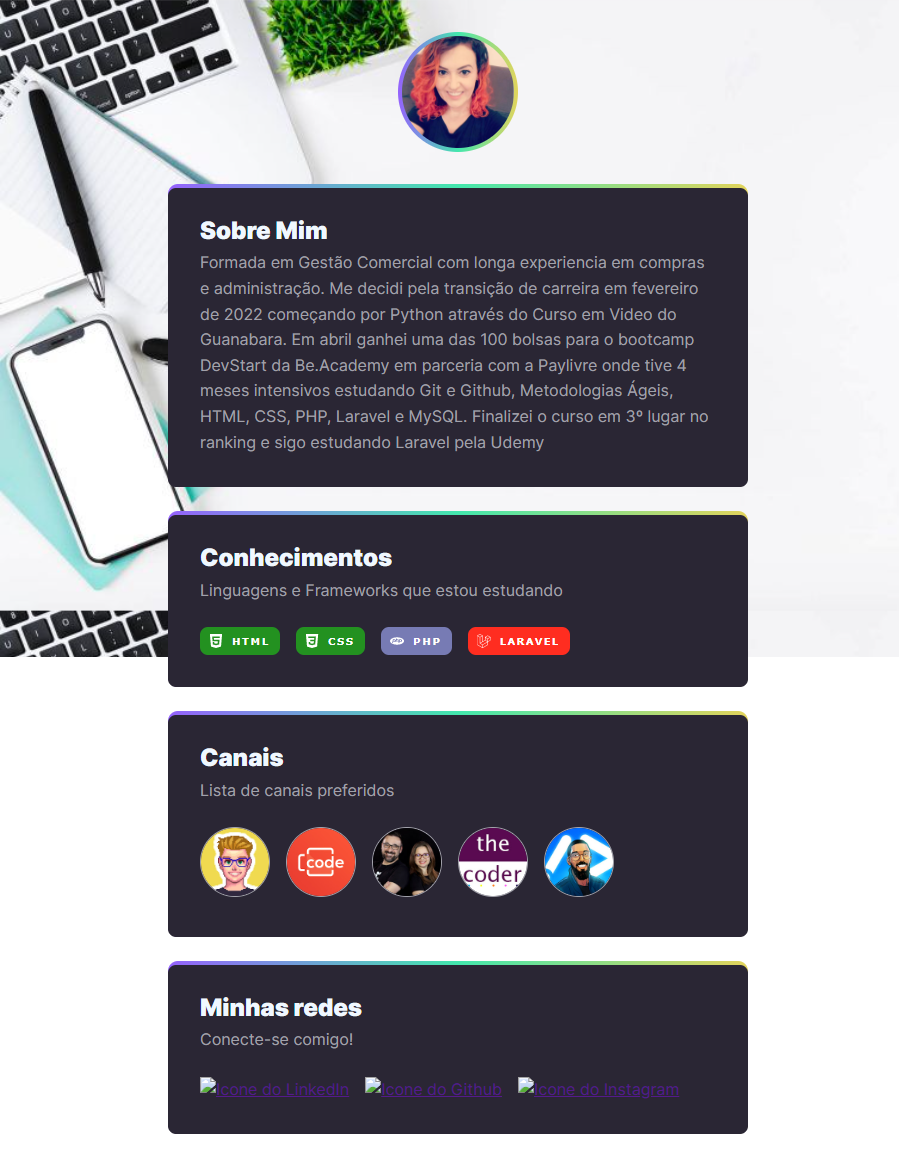
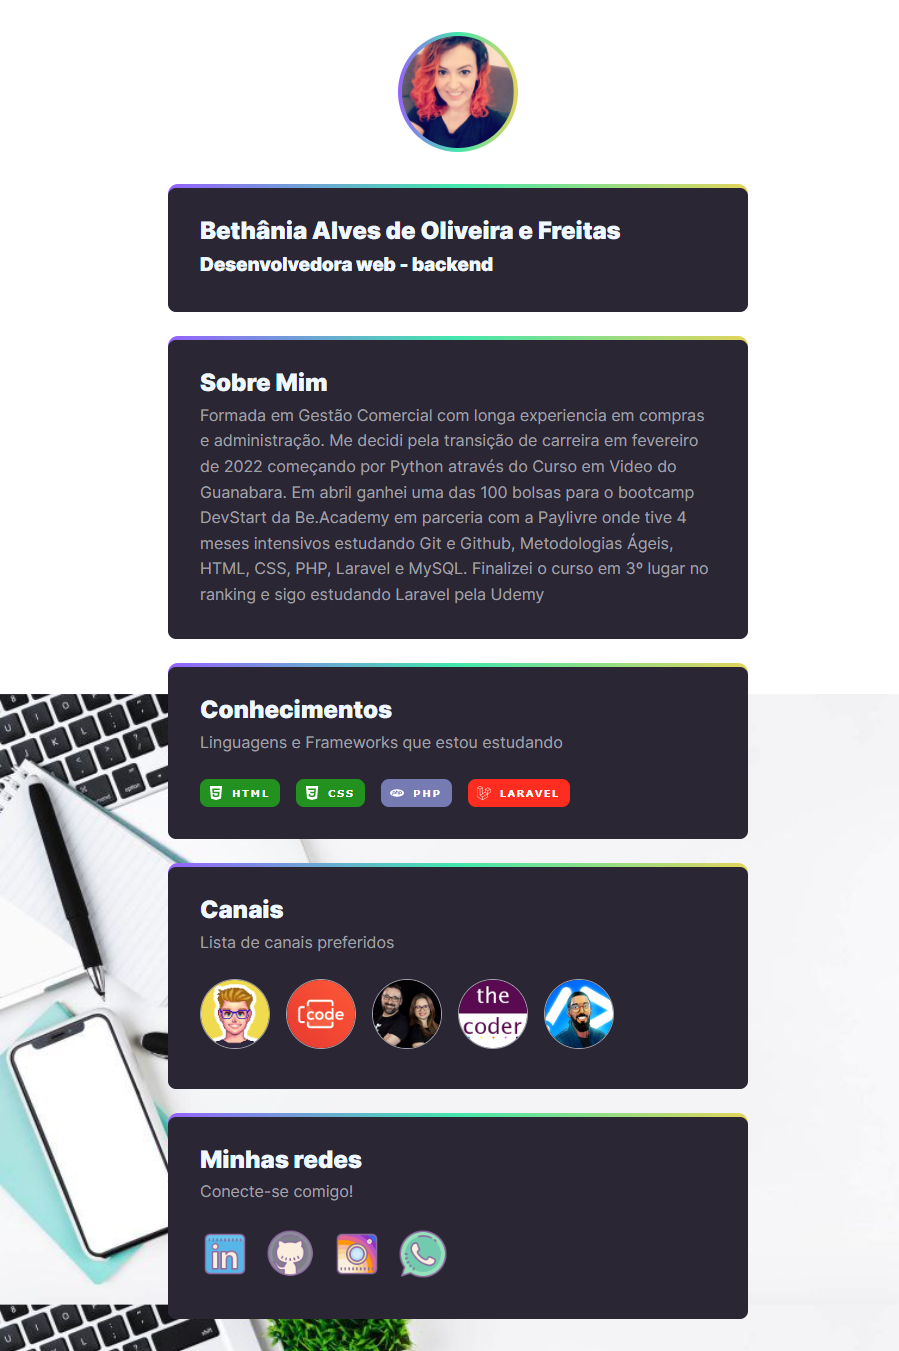
edicao readme

Changed region(s): [[0.0, 0.0, 0.8409, 1.0]]

diff --git a/README.md b/README.md
@@ -4,18 +4,35 @@
 
 # NLW - Rocketseat
 
-NLW é o maior evento online e gratuito de programação na prática com muito código, desafios, networking e um único objetivo: te levar para o próximo nível
-Durante uma semana tive acesso a uma metodologia eficiente para o seu aprendizado, uma comunidade com milhares de devs e uma experiência completa pra acelerar minha evolução como dev.
+NLW é o um evento online e gratuito de programação na prática desenvolvido pela Rocketseat.
+
+O projeto raiz era sobre games, mas fiz uma adaptação para tornar o projeto, num cartão pessoal de apresentação.
+
+<br>
+
+## 👉🏻 Deploy:  [Aqui](https://bethania-freitas.github.io/NLW-esports-explorer/)
 
 
-## Stack utilizada
+<br>
 
-**Front-end:** HTML e CSS 
+## 😲 Preview:
+<br>
+
+![Preview](./assets/screenshot.png)
+
+<br><br>
+
+## 💻 Tecnologias:
+
+- HTML  
+- CSS
+- Git e Github 
 
 
 
+<br>
 
-## Autores
+## 👧🏻  Autores:
 
-- [Bethânia Freitas 👧🏻](https://github.com/Bethania-Freitas)
+- [Bethânia Freitas](https://github.com/Bethania-Freitas)
 
